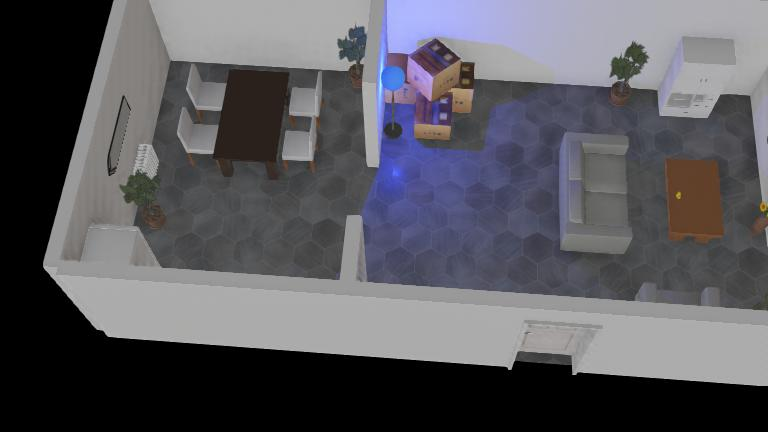
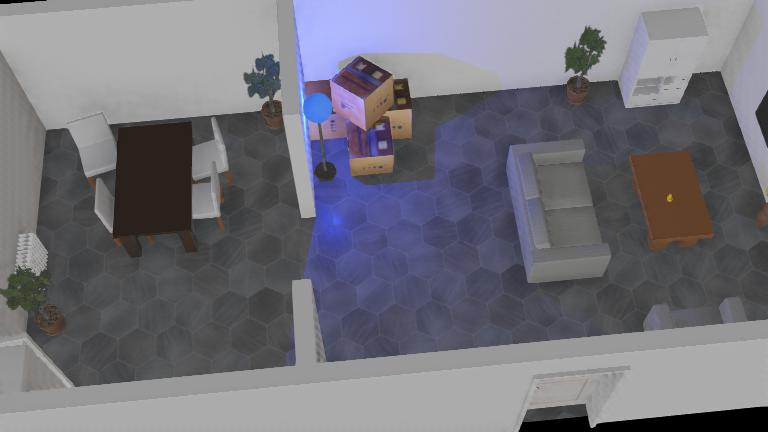
WE HEBBE NEM WE HEBBE NEM DE MAPPP

diff --git a/src/isfr_bot_webots/launch/webots.launch.py b/src/isfr_bot_webots/launch/webots.launch.py
@@ -78,13 +78,6 @@ def generate_launch_description():
         prefix=controller_manager_prefix,
         arguments=['joint_state_broadcaster'] + controller_manager_timeout,
     )
-    # Twist stamper to put timestamps on twist messages:
-    # (defined in custom python file in this package)
-    # twistStamperNode = Node(
-    #     package='isfr_bot_webots',
-    #     executable='twist_stamper',
-    #     output='screen'
-    # )
     # Webots main robot controller
     webotsControllerNode = WebotsController(
         robot_name=proto_robot_name,
@@ -101,14 +94,14 @@ def generate_launch_description():
     )
 
     # Uses SLAM to create a map    
-    # slamToolboxNode = Node(
-    #     package='slam_toolbox',
-    #     executable='async_slam_toolbox_node',
-    #     name='slam_toolbox',
-    #     output='screen',
-    #     parameters=[slam_config_file],
-    #     condition=launch.conditions.IfCondition(use_slam)
-    # )
+    slamToolboxNode = Node(
+        package='slam_toolbox',
+        executable='async_slam_toolbox_node',
+        name='slam_toolbox',
+        output='screen',
+        parameters=[slam_config_file],
+        condition=launch.conditions.IfCondition(use_slam)
+    )
     # turtlebot_slam = IncludeLaunchDescription(
     #         PythonLaunchDescriptionSource(os.path.join(
     #             get_package_share_directory('turtlebot3_cartographer'), 'launch', 'cartographer.launch.py')),
@@ -116,52 +109,64 @@ def generate_launch_description():
     #             ('use_sim_time', use_sim_time),
     #         ],
     #         condition=launch.conditions.IfCondition(use_slam))
-    cartographerNode = Node(
-        package='cartographer_ros',
-        executable='cartographer_node',
-        name='cartographer_node',
-        output='screen',
-        parameters=[{'use_sim_time': use_sim_time}],
-        arguments=[
-            '-configuration_directory', cartographer_config_dir,
-            '-configuration_basename', cartographer_config_file,
-        ],
-        condition=launch.conditions.IfCondition(use_slam)
-    )
-
-    cartographerOccupancyNode = Node(
-        package='cartographer_ros',
-        executable='cartographer_occupancy_grid_node',
-        name='cartographer_occupancy_grid_node',
-        output='screen',
-        parameters=[{'use_sim_time': use_sim_time}],
-        arguments=[
-            '-resolution', '0.05',  # adjust map resolution as needed
-        ],
-        condition=launch.conditions.IfCondition(use_slam)
-    )
-
-    # slamLifecycleManagerNode = Node(
-    #     package='nav2_lifecycle_manager',
-    #     executable='lifecycle_manager',
-    #     name='lifecycle_manager_slam',
+    # cartographerNode = Node(
+    #     package='cartographer_ros',
+    #     executable='cartographer_node',
+    #     name='cartographer_node',
     #     output='screen',
-    #     parameters=[{
-    #         'use_sim_time': use_sim_time,
-    #         'autostart': True,
-    #         'node_names': ['slam_toolbox']
-    #     }],
-    #     condition=launch.conditions.IfCondition(use_slam)
-    # )
-    # rvizNode = Node(
-    #     package='rviz2',
-    #     executable='rviz2',
-    #     name='rviz2',
-    #     output='screen',
-    #     arguments=['-d', rvizConfigFile],
     #     parameters=[{'use_sim_time': use_sim_time}],
+    #     arguments=[
+    #         '-configuration_directory', cartographer_config_dir,
+    #         '-configuration_basename', cartographer_config_file,
+    #     ],
     #     condition=launch.conditions.IfCondition(use_slam)
     # )
+
+    # cartographerOccupancyNode = Node(
+    #     package='cartographer_ros',
+    #     executable='cartographer_occupancy_grid_node',
+    #     name='cartographer_occupancy_grid_node',
+    #     output='screen',
+    #     parameters=[{'use_sim_time': use_sim_time}],
+    #     arguments=[
+    #         '-resolution', '0.05',  # adjust map resolution as needed
+    #     ],
+    #     condition=launch.conditions.IfCondition(use_slam)
+    # )
+
+    slamLifecycleManagerNode = Node(
+        package='nav2_lifecycle_manager',
+        executable='lifecycle_manager',
+        name='lifecycle_manager_slam',
+        output='screen',
+        parameters=[{
+            'use_sim_time': use_sim_time,
+            'autostart': True,
+            'node_names': ['slam_toolbox']
+        }],
+        condition=launch.conditions.IfCondition(use_slam)
+    )
+    rvizNode = Node(
+        package='rviz2',
+        executable='rviz2',
+        name='rviz2',
+        output='screen',
+        arguments=['-d', rvizConfigFile],
+        parameters=[{'use_sim_time': use_sim_time}],
+        condition=launch.conditions.IfCondition(use_slam)
+    )
+
+    groundTruthOdomNode = Node(
+        package='isfr_bot_webots',
+        executable='ground_truth_odom',
+        name='ground_truth_odom',
+        output='screen',
+        parameters=[{
+            'use_sim_time': True,
+            'odom_frame': 'odom',
+            'base_link_frame': 'base_link',
+        }],
+    )
 
     # localisationNode = Node(
     #     package='robot_localization',
@@ -174,7 +179,7 @@ def generate_launch_description():
     # Handles spawning the *SpawnerNode nodes after the controller is online
     waitingNodes = WaitForControllerConnection(
         target_driver=webotsControllerNode,
-        nodes_to_start=[diffdriveControllerSpawnerNode, jointStateBroadcasterSpawnerNode, cartographerNode, cartographerOccupancyNode],
+        nodes_to_start=[diffdriveControllerSpawnerNode, jointStateBroadcasterSpawnerNode, slamToolboxNode, slamLifecycleManagerNode, rvizNode],
     )
 
     return LaunchDescription([
@@ -189,6 +194,7 @@ def generate_launch_description():
         # twistStamperNode,
         webotsControllerNode,
         waitingNodes,
+        groundTruthOdomNode,
 
         # kill all ROS nodes if WebotsLauncherNode is exited
         launch.actions.RegisterEventHandler(
